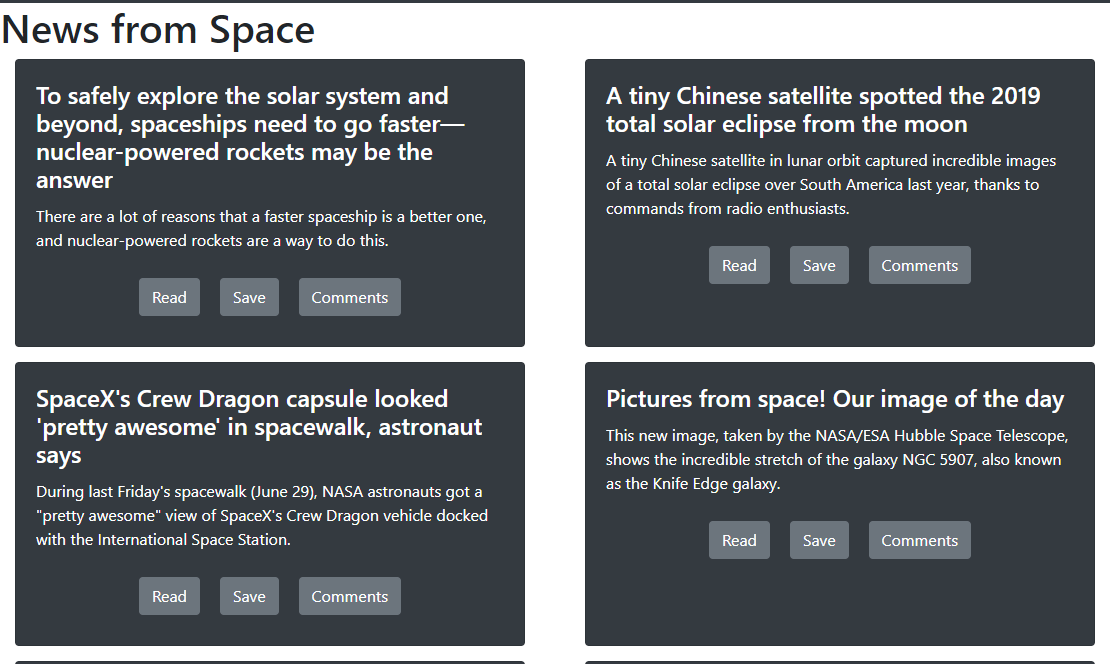
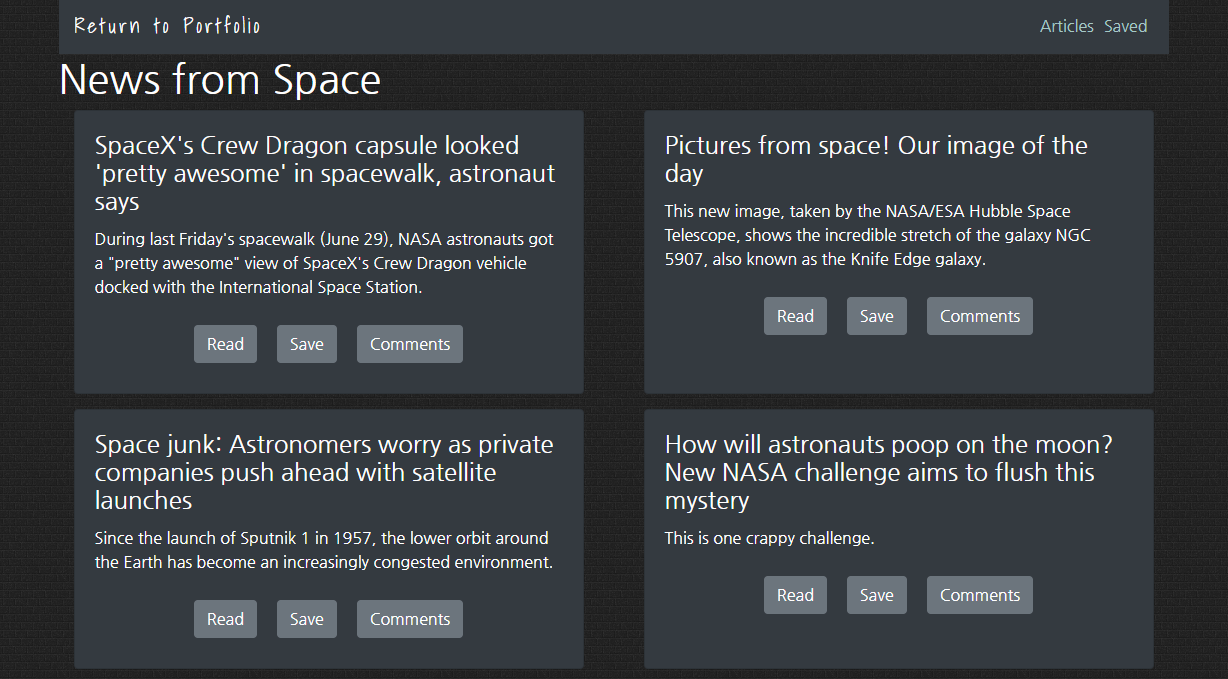
Update image for news-scraper and fixed typo for repo link

diff --git a/assets/javascript/script.js b/assets/javascript/script.js
@@ -115,7 +115,7 @@ var news = {
   source: "./assets/images/news.png",
   alt: "News scraper project image",
   app: "'https://news-from-space.herokuapp.com/'",
-  rep: "'https://github.com/MagusConjurer/news-scraper'",
+  repo: "'https://github.com/MagusConjurer/news-scraper'",
   description: "A web app that lets users view and leave comments on the latest news.",
   tech: "Bootstrap, Node.js, Express, MongoDB, Handlebars"
 }
